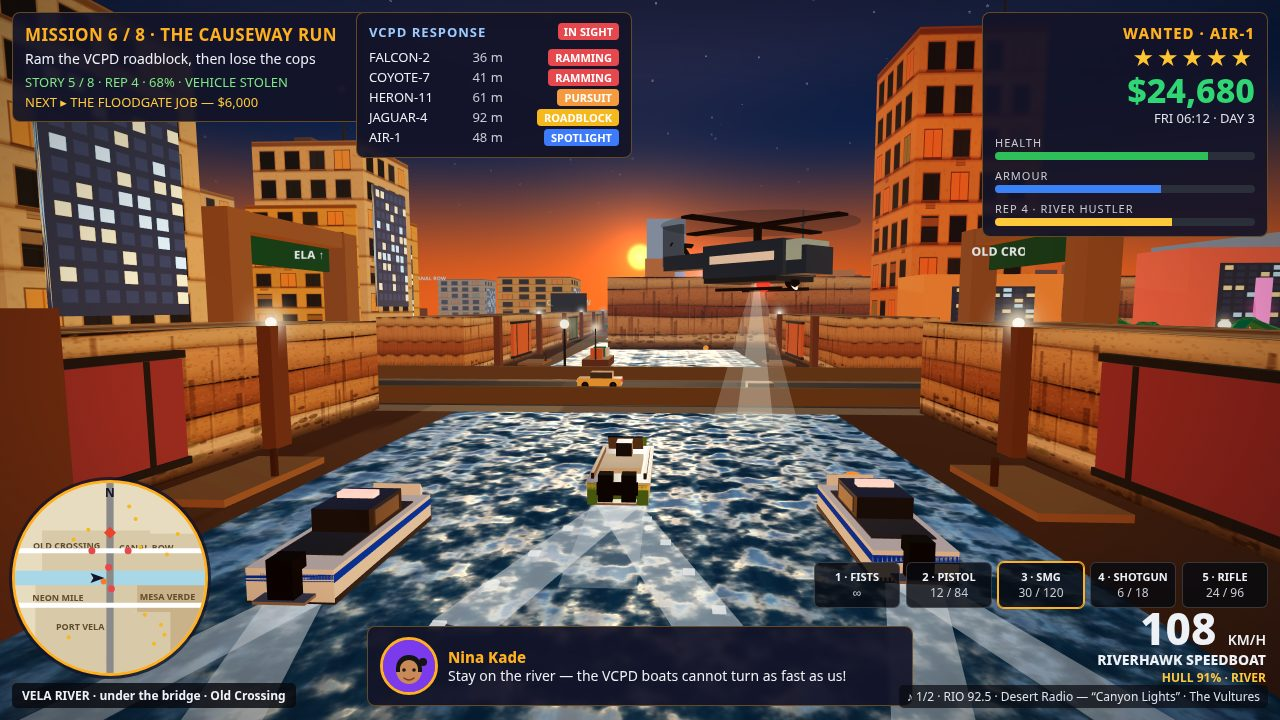
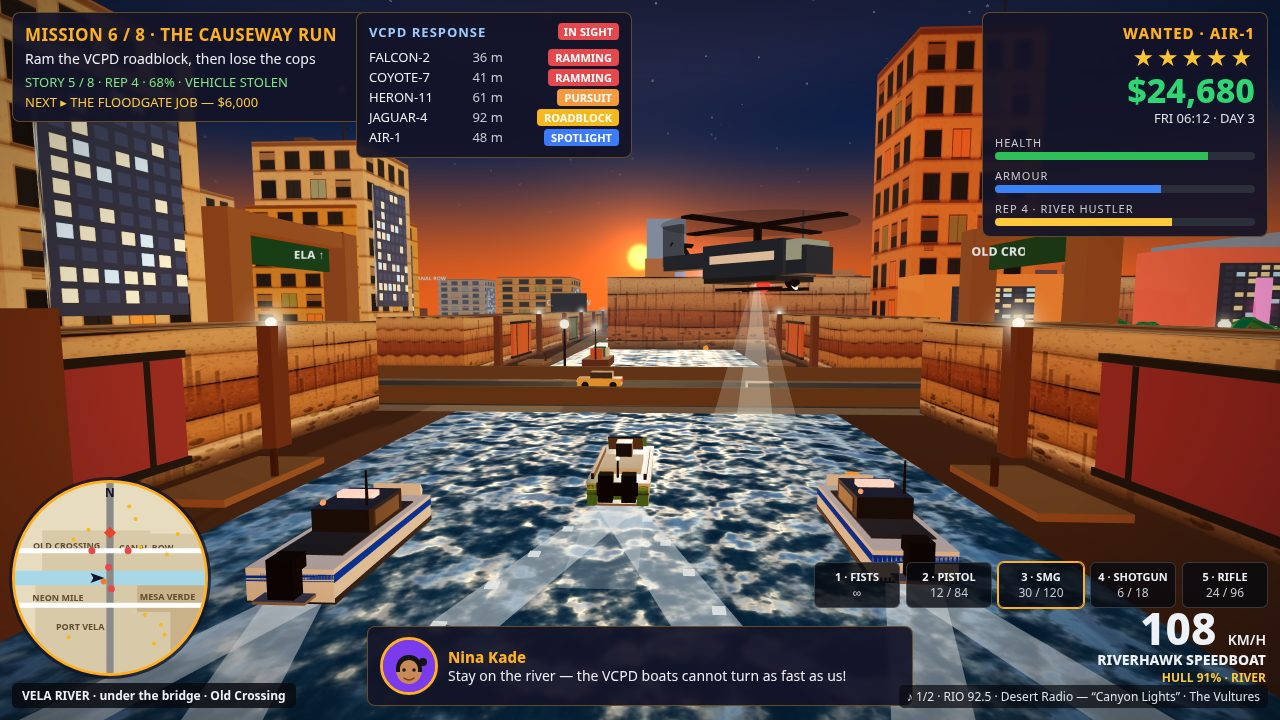
v7 r4d touch-up — recorded polish pass

diff --git a/game/src/vehicles.js b/game/src/vehicles.js
@@ -154,6 +154,15 @@ function buildBoatMesh() {
   transom.position.set(0, 0.85, -3.35); g.add(transom);
   const stripe = new THREE.Mesh(new THREE.BoxGeometry(2.42, 0.18, BOAT.length), new THREE.MeshStandardMaterial({ color: 0xffd34d }));
   stripe.position.y = 0.85; g.add(stripe);
+  // r4d-touch: thin dark rub stripe under the yellow one + a small white
+  // stern light on a short pole, so the green hull has a second read line
+  // and the stern is not an empty dark slab at dawn.
+  const stripe2 = new THREE.Mesh(new THREE.BoxGeometry(2.44, 0.08, BOAT.length), new THREE.MeshStandardMaterial({ color: 0x14202e, roughness: 0.5 }));
+  stripe2.position.y = 0.62; g.add(stripe2);
+  const sternPole = new THREE.Mesh(new THREE.CylinderGeometry(0.04, 0.05, 0.7, 6), new THREE.MeshStandardMaterial({ color: 0x222222 }));
+  sternPole.position.set(0, 1.6, -3.1); g.add(sternPole);
+  const sternLight = new THREE.Mesh(new THREE.SphereGeometry(0.09, 8, 8), new THREE.MeshStandardMaterial({ color: 0xfff2cf, emissive: 0xffe9a0, emissiveIntensity: 2.2 }));
+  sternLight.position.set(0, 2.0, -3.1); g.add(sternLight);
   // Wake: a V of foam spreading behind the stern (not one flat rectangle)
   // + scattered foam dots, so it reads as spray at speed.
   const wake = new THREE.Mesh(new THREE.PlaneGeometry(1.7, 10), new THREE.MeshBasicMaterial({ color: 0xe8f6fa, transparent: true, opacity: 0.5, depthWrite: false }));
@@ -207,6 +216,12 @@ function buildPoliceBoatMesh() {
   }
   const bar = new THREE.Mesh(new THREE.BoxGeometry(1.2, 0.18, 0.4), new THREE.MeshStandardMaterial({ color: 0xffffff, emissive: 0xff2233, emissiveIntensity: 3 }));
   bar.position.set(0, 1.95, 0.4); g.add(bar);
+  // r4d-touch: whip antenna + small red beacon on the cab roof — the light
+  // bar stops being the only vertical detail on the wheelhouse.
+  const aerial = new THREE.Mesh(new THREE.CylinderGeometry(0.03, 0.05, 1.1, 6), new THREE.MeshStandardMaterial({ color: 0x222222 }));
+  aerial.position.set(-0.7, 2.4, -0.4); g.add(aerial);
+  const beacon = new THREE.Mesh(new THREE.SphereGeometry(0.09, 8, 8), new THREE.MeshStandardMaterial({ color: 0xff2020, emissive: 0xff2020, emissiveIntensity: 2.5 }));
+  beacon.position.set(0.7, 1.9, -0.4); g.add(beacon);
   const motor = new THREE.Mesh(new THREE.BoxGeometry(0.7, 1.1, 0.6), new THREE.MeshStandardMaterial({ color: 0x141414 }));
   motor.position.set(0, 0.9, -3.3); g.add(motor);
   const plate = new THREE.Mesh(new THREE.BoxGeometry(1.4, 0.08, 0.7), new THREE.MeshStandardMaterial({ color: 0x888888, roughness: 0.3, metalness: 0.8 }));

diff --git a/game/src/atmosphere.js b/game/src/atmosphere.js
@@ -184,12 +184,21 @@ export function createSky(scene) {
 
         // Procedural clouds: soft billows in the upper sky, sun-tinted, so the
         // zenith never reads as an empty gradient. Day/golden only.
+        // r4d-touch: coverage + contrast raised — r4d's clouds were nearly
+        // invisible at golden hour (threshold 0.52, mix 0.38). Lower floor,
+        // tighter ceiling and a stronger mix, plus a fine detail octave so
+        // the billows keep an edge instead of one soft wash.
         vec2 cuv = d.xz / max(d.y + 0.22, 0.06);
         float cn = fbm3(cuv * 0.55 + vec2(3.7, 1.3));
-        float cmask = smoothstep(0.16, 0.30, h) * (1.0 - smoothstep(0.55, 0.72, h));
-        float cov = smoothstep(0.52, 0.72, cn) * cmask * (1.0 - uNight);
+        float cd = fbm3(cuv * 1.6 + vec2(9.1, 4.2));
+        float cmask = smoothstep(0.14, 0.28, h) * (1.0 - smoothstep(0.55, 0.78, h));
+        float cov = smoothstep(0.44, 0.62, cn) * cmask * (1.0 - uNight);
+        cov *= 0.72 + 0.55 * smoothstep(0.35, 0.65, cd);
         vec3 cloudCol = mix(uHorizon, uSunColor, 0.45);
-        col = mix(col, cloudCol, cov * 0.38);
+        // Underside shade: denser cores read slightly cooler/darker, so a
+        // billow has a top and a belly instead of one flat tint.
+        cloudCol = mix(cloudCol, uMid * 0.92 + uHorizon * 0.08, smoothstep(0.62, 0.85, cn) * 0.35);
+        col = mix(col, cloudCol, clamp(cov, 0.0, 1.0) * 0.55);
         // Horizon haze: same colour as the fog, thickest at the waterline, so
         // distant towers dissolve into the sky instead of cutting a silhouette.
         float haze = pow(1.0 - clamp(h / 0.30, 0.0, 1.0), 2.0);

diff --git a/game/src/shots.js b/game/src/shots.js
@@ -90,7 +90,7 @@ export function stageShot(name, G) {
     // (golden wide / golden chase / neon night / blue dawn).
     Object.assign(save, { cash: 24680, storyDone: 2, rep: 3, repProgress: 42, health: 82, armour: 64, day: 3, weekday: 'FRI', hour: 17.6, complete: 68 });
     G.city.setHour(17.6);
-    G.city.setSunOverride(-1, 0.14, -0.06, 0.0032, 1.7); // r4d: sun low in the west, over the river vanishing point; fill lifts the shadow-side facades
+    G.city.setSunOverride(-1, 0.14, -0.06, 0.0032, 1.8); // r4d: sun low in the west, over the river vanishing point; fill lifts the shadow-side facades — r4d-touch 1.7 -> 1.8, a touch more lift now the brighter clouds add sky light
     G.renderer.setExposure(1.24);
     G.player.setMode('car', 0, 8, Math.PI);
     G.player.drive(0, 0, 0, false, G.city.colliders);
@@ -163,7 +163,7 @@ export function stageShot(name, G) {
     // overhead, pursuit boats + helicopter. Police cars stay off the water.
     Object.assign(save, { cash: 24680, storyDone: 5, rep: 4, repProgress: 68, health: 82, armour: 64, day: 3, weekday: 'FRI', hour: 6.2, complete: 68 });
     G.city.setHour(6.2);
-    G.city.setSunOverride(1, 0.10, -0.05, 0.004, 0.9); // r4d: dawn sun low in the east, over the river ahead — disc + glint lane in frame
+    G.city.setSunOverride(1, 0.10, -0.05, 0.004, 1.0); // r4d: dawn sun low in the east, over the river ahead — disc + glint lane in frame; r4d-touch fill 0.9 -> 1.0 so the pursuit boats' white hulls hold against the brighter dawn sky
     G.renderer.setExposure(1.15);
     G.city.dust.setOn(false);
     G.player.setMode('boat', -30, 0, Math.PI / 2);

diff --git a/game/src/textures.js b/game/src/textures.js
@@ -277,6 +277,25 @@ export function asphaltTexture() {
     });
   }
 
+  // r4d-touch: worn pale patches where traffic polishes the surface + a few
+  // darker damp blotches, so a long stretch of road never reads as one flat
+  // brown card at chase-cam distance. Kept low-alpha; the wet pass still owns
+  // the strong reflections.
+  for (let i = 0; i < 6; i += 1) {
+    const x = Math.random() * S, y = Math.random() * S, r = 26 + Math.random() * 42;
+    const damp = Math.random() < 0.45;
+    const rgb = damp ? '22,18,14' : '150,132,108';
+    const a = damp ? 0.07 + Math.random() * 0.04 : 0.05 + Math.random() * 0.04;
+    wrap(x, y, r, (px, py) => {
+      const grd = g.createRadialGradient(px, py, 0, px, py, r);
+      grd.addColorStop(0, `rgba(${rgb},${a})`);
+      grd.addColorStop(0.7, `rgba(${rgb},${a * 0.4})`);
+      grd.addColorStop(1, `rgba(${rgb},0)`);
+      g.fillStyle = grd;
+      g.beginPath(); g.arc(px, py, r, 0, Math.PI * 2); g.fill();
+    });
+  }
+
   // Tar-seal patches: irregular clusters of soft dark blobs.
   for (let i = 0; i < 12; i += 1) {
     const cx = Math.random() * S, cy = Math.random() * S;

diff --git a/game/src/city.js b/game/src/city.js
@@ -659,7 +659,12 @@ export function createCity(seed = 7) {
       const color = PALETTE.building[Math.floor(rnd() * PALETTE.building.length)];
       pos.set(p.x, p.h / 2, p.z); sc.set(p.w, p.h, p.d);
       m4.compose(pos, q, sc); facades.setMatrixAt(i, m4);
-      facades.setColorAt(i, col.setHex(color));
+      // r4d-touch: per-building tint/brightness jitter from a coordinate hash
+      // (no rnd() consumed, so the layout/seed stream is untouched) — the
+      // facades stop reading as one flat cardboard tint per district.
+      const hv = Math.abs(Math.sin(p.x * 12.9898 + p.z * 78.233) * 43758.5453) % 1;
+      const tint = 0.88 + hv * 0.24;
+      facades.setColorAt(i, col.setHex(color).multiplyScalar(tint));
       pos.set(p.x, p.h * 0.55, p.z + p.d / 2 + 0.15); sc.set(p.w * 0.7, p.h * 0.55, 0.3);
       m4.compose(pos, q, sc); windows.setMatrixAt(i, m4);
       colliders.push({ x0: p.x - p.w / 2, z0: p.z - p.d / 2, x1: p.x + p.w / 2, z1: p.z + p.d / 2 });
